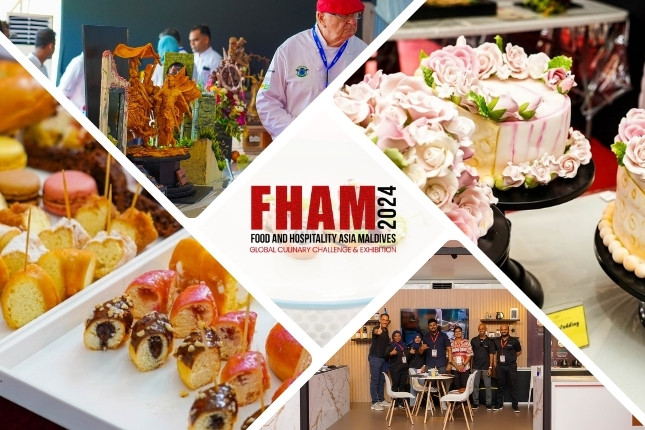
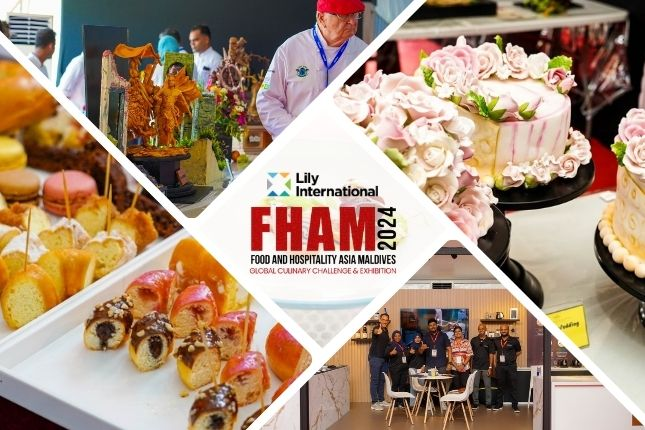
New sponsorlogo changes

diff --git a/index.html b/index.html
@@ -114,7 +114,7 @@
         </div>  
 
         <div class="date-container" style="padding-bottom: 0;">
-            <span  style="color: rgb(255, 255, 255); ">22 | 23 | 24 | 25 SEPTEMBER 2024 - Culinary Competitions
+            <span  style="color: rgb(255, 255, 255); ">22 | 23 | 24 | 25 SEPTEMBER 2024 - Culinary, Barista, Mocktail and Housekeeping & Bed Decorating Competitions
         </div>   
        
         <a href="https://fhamaldives.com/form-db/" class="primary-btn" style="color:aliceblue; "  target="_blank">STALL RESERVATION</a>
@@ -287,6 +287,18 @@
                              <span class="name" style="color: aliceblue;">Sea Sports & Games</span>
                         </summary>
                     </details>
+
+                    <details class="feature">
+                        <summary>
+                            <i aria-hidden="true" class="checkmark">
+                                <svg xmlns="http://www.w3.org/2000/svg" viewBox="0 0 24 24" width="24" height="24">
+                                    <path fill="none" d="M0 0h24v24H0z" />
+                                    <path fill="currentColor" d="M10 15.172l9.192-9.193 1.415 1.414L10 18l-6.364-6.364 1.414-1.414z" />
+                                </svg>
+                            </i>
+                             <span class="name" style="color: aliceblue;">Linen & Amenities</span>
+                        </summary>
+                    </details>
                 <!-- Add more left details here if needed -->
             </div>
             
@@ -336,6 +348,17 @@
                             </svg>
                         </i>
                          <span class="name" style="color: aliceblue;">Engines & Accessories </span>
+                    </summary>
+                </details>
+                <details class="feature">
+                    <summary>
+                        <i aria-hidden="true" class="checkmark">
+                            <svg xmlns="http://www.w3.org/2000/svg" viewBox="0 0 24 24" width="24" height="24">
+                                <path fill="none" d="M0 0h24v24H0z" />
+                                <path fill="currentColor" d="M10 15.172l9.192-9.193 1.415 1.414L10 18l-6.364-6.364 1.414-1.414z" />
+                            </svg>
+                        </i>
+                         <span class="name" style="color: aliceblue;">Detergent & Cleaning Solutions</span>
                     </summary>
                 </details>
                 <!-- Add more right details here if needed -->
@@ -778,6 +801,16 @@
                     </a>
                 </div>
             </div>
+
+            <div class="pl-table">
+                <div class="pl-tablecell">
+                    <a href="https://corporate.visitmaldives.com/" target="_blank">
+                    <img src="img/partner-logo/Endorsed/en-7.jpg" alt="">
+      
+                    </a>
+                </div>
+            </div>
+
         </div>
 
      
@@ -957,8 +990,8 @@
                     <div class="li-tag">WHEN</div>
                     <div class="li-text">
                         <span style="font-size: 17px;"><i class="fa fa-clock-o"></i> 23 | 24 | 25 SEPTEMBER 2024 - Exhibition</span><br>
-                        <span style="font-size: 17px;"><i class="fa fa-clock-o"></i> 22 | 23 | 24 | 25 SEPTEMBER 2024 - Culinary Competitions </span><br>
-                        <h5><a>Exhibition & Culinary Challenge Dates</a></h5>
+                        <span style="font-size: 17px;"><i class="fa fa-clock-o"></i> 22 | 23 | 24 | 25 SEPTEMBER 2024 - FHAM 2024 Competitions </span><br>
+                        <h5><a>Exhibition and Competition Dates</a></h5>
                     </div>
                 </div>
                 <div class="latest-item set-bg" data-setbg="img/blog/location-blog.jpg">
@@ -1142,7 +1175,7 @@
             <div class="col-lg-3">
                 <div class="footer-text">
                     <div class="ft-logo">
-                        <a href="#" class="footer-logo"><img src="img/logo-pld.png" alt=""></a>
+                        <a href="#" class="footer-logo"><img src="img/logo-foot.png" alt=""></a>
                     </div>
                     <div class="con-info custom-font" style="color: aliceblue; ">
 
@@ -1283,6 +1316,11 @@
             <a href="http://maldiveshousekeepers.com/" class="pl-table" target="_blank">
                 <div class="pl-tablecell">
                     <img src="img/partner-logo/partner-6.png" alt="">
+                </div>
+            </a>
+            <a href="https://corporate.visitmaldives.com/" class="pl-table" target="_blank">
+                <div class="pl-tablecell">
+                    <img src="img/partner-logo/partner-9.png" alt="">
                 </div>
             </a>
            

diff --git a/Exhibition.html b/Exhibition.html
@@ -73,7 +73,7 @@
     <div class="container" style="width: 1500px;">
         <div class="logo">
             <a href="./index.html">
-                <img src="img/logo.png" alt="">
+                <img src="img/logo-n.png" alt="">
             </a>
         </div>
         <div class="nav-menu">
@@ -118,7 +118,7 @@
                             
                             </div>
                             <div class="herodate2">
-                                <span class="herodate2" style="color: rgb(255, 255, 255); ">22 | 23 | 24 | 25 SEPTEMBER 2024 - Culinary Competitions
+                                <span class="herodate2" style="color: rgb(255, 255, 255); ">22 | 23 | 24 | 25 SEPTEMBER 2024 - Culinary, Barista, Mocktail and Housekeeping & Bed Decorating Competitions
                                 </span><br>
                                 
                             </div>
@@ -171,7 +171,7 @@
                 </div>
                 <div class="col-lg-6">
                     <div class="ha-pic">
-                        <img src="img/about/exhibition.jpg" alt="" >
+                        <img src="img/about/exhibition-3.jpg" alt="" >
                     </div>
                 </div>
                 <div class="col-lg-6">
@@ -272,6 +272,19 @@
                                  <span class="name" style="color: aliceblue;">Sea Sports & Games</span>
                             </summary>
                         </details>
+
+                        <details class="feature">
+                            <summary>
+                                <i aria-hidden="true" class="checkmark">
+                                    <svg xmlns="http://www.w3.org/2000/svg" viewBox="0 0 24 24" width="24" height="24">
+                                        <path fill="none" d="M0 0h24v24H0z" />
+                                        <path fill="currentColor" d="M10 15.172l9.192-9.193 1.415 1.414L10 18l-6.364-6.364 1.414-1.414z" />
+                                    </svg>
+                                </i>
+                                 <span class="name" style="color: aliceblue;">Linen & Amenities</span>
+                            </summary>
+                        </details>
+
                     <!-- Add more left details here if needed -->
                 </div>
                 
@@ -323,6 +336,19 @@
                              <span class="name" style="color: aliceblue;">Engines & Accessories </span>
                         </summary>
                     </details>
+
+                    <details class="feature">
+                        <summary>
+                            <i aria-hidden="true" class="checkmark">
+                                <svg xmlns="http://www.w3.org/2000/svg" viewBox="0 0 24 24" width="24" height="24">
+                                    <path fill="none" d="M0 0h24v24H0z" />
+                                    <path fill="currentColor" d="M10 15.172l9.192-9.193 1.415 1.414L10 18l-6.364-6.364 1.414-1.414z" />
+                                </svg>
+                            </i>
+                             <span class="name" style="color: aliceblue;">Detergent & Cleaning Solutions</span>
+                        </summary>
+                    </details>
+
                     <!-- Add more right details here if needed -->
                 </div>
             </div>
@@ -792,7 +818,7 @@
             <div class="col-lg-3">
                 <div class="footer-text">
                     <div class="ft-logo">
-                        <a href="#" class="footer-logo"><img src="img/logo-pld.png" alt=""></a>
+                        <a href="#" class="footer-logo"><img src="img/logo-foot.png" alt=""></a>
                     </div>
                     <div class="con-info custom-font" style="color: aliceblue; ">
 
@@ -936,7 +962,11 @@
                     <img src="img/partner-logo/partner-6.png" alt="">
                 </div>
             </a>
-           
+            <a href="https://corporate.visitmaldives.com/" class="pl-table" target="_blank">
+                <div class="pl-tablecell">
+                    <img src="img/partner-logo/partner-9.png" alt="">
+                </div>
+            </a>
             
         </div>
 

diff --git a/about-us.html b/about-us.html
@@ -107,7 +107,7 @@
                             
                             </div>
                             <div class="herodate2">
-                                <span class="herodate2" style="color: rgb(255, 255, 255); ">22 | 23 | 24 | 25 SEPTEMBER 2024 - Culinary Competitions
+                                <span class="herodate2" style="color: rgb(255, 255, 255); ">22 | 23 | 24 | 25 SEPTEMBER 2024 - Culinary, Barista, Mocktail and Housekeeping & Bed Decorating Competitions
                                 </span><br>
                                 
                             </div>
@@ -341,6 +341,16 @@
                     </a>
                 </div>
             </div>
+
+            <div class="pl-table">
+                <div class="pl-tablecell">
+                    <a href="https://corporate.visitmaldives.com/" target="_blank">
+                    <img src="img/partner-logo/Endorsed/en-7.jpg" alt="">
+      
+                    </a>
+                </div>
+            </div>
+
         </div>
 
      
@@ -885,7 +895,7 @@
             <div class="col-lg-3">
                 <div class="footer-text">
                     <div class="ft-logo">
-                        <a href="#" class="footer-logo"><img src="img/logo-pld.png" alt=""></a>
+                        <a href="#" class="footer-logo"><img src="img/logo-foot.png" alt=""></a>
                     </div>
                     <div class="con-info custom-font" style="color: aliceblue; ">
 
@@ -1029,7 +1039,11 @@
                     <img src="img/partner-logo/partner-6.png" alt="">
                 </div>
             </a>
-           
+           <a href="https://corporate.visitmaldives.com/" class="pl-table" target="_blank">
+                <div class="pl-tablecell">
+                    <img src="img/partner-logo/partner-9.png" alt="">
+                </div>
+            </a>
             
         </div>
 

diff --git a/Challenge-1.html b/Challenge-1.html
@@ -117,7 +117,7 @@
                             
                             </div>
                             <div class="herodate2">
-                                <span class="herodate2" style="color: rgb(255, 255, 255); ">22 | 23 | 24 | 25 SEPTEMBER 2024 - Culinary Competitions
+                                <span class="herodate2" style="color: rgb(255, 255, 255); ">22 | 23 | 24 | 25 SEPTEMBER 2024 - Culinary, Barista, Mocktail and Housekeeping & Bed Decorating Competitions
                                 </span><br>
                                 
                             </div>
@@ -311,7 +311,7 @@
             <div class="col-lg-3">
                 <div class="footer-text">
                     <div class="ft-logo">
-                        <a href="#" class="footer-logo"><img src="img/logo-pld.png" alt=""></a>
+                        <a href="#" class="footer-logo"><img src="img/logo-foot.png" alt=""></a>
                     </div>
                     <div class="con-info custom-font" style="color: aliceblue; ">
 
@@ -455,7 +455,11 @@
                     <img src="img/partner-logo/partner-6.png" alt="">
                 </div>
             </a>
-           
+            <a href="https://corporate.visitmaldives.com/" class="pl-table" target="_blank">
+                <div class="pl-tablecell">
+                    <img src="img/partner-logo/partner-9.png" alt="">
+                </div>
+            </a>
             
         </div>
 

diff --git a/Challenge-2.html b/Challenge-2.html
@@ -117,7 +117,7 @@
                             
                             </div>
                             <div class="herodate2">
-                                <span class="herodate2" style="color: rgb(255, 255, 255); ">22 | 23 | 24 | 25 SEPTEMBER 2024 - Culinary Competitions
+                                <span class="herodate2" style="color: rgb(255, 255, 255); ">22 | 23 | 24 | 25 SEPTEMBER 2024 - Culinary, Barista, Mocktail and Housekeeping & Bed Decorating Competitions
                                 </span><br>
                                 
                             </div>
@@ -305,7 +305,7 @@
             <div class="col-lg-3">
                 <div class="footer-text">
                     <div class="ft-logo">
-                        <a href="#" class="footer-logo"><img src="img/logo-pld.png" alt=""></a>
+                        <a href="#" class="footer-logo"><img src="img/logo-foot.png" alt=""></a>
                     </div>
                     <div class="con-info custom-font" style="color: aliceblue; ">
 
@@ -449,7 +449,11 @@
                     <img src="img/partner-logo/partner-6.png" alt="">
                 </div>
             </a>
-           
+            <a href="https://corporate.visitmaldives.com/" class="pl-table" target="_blank">
+                <div class="pl-tablecell">
+                    <img src="img/partner-logo/partner-9.png" alt="">
+                </div>
+            </a>
             
         </div>
 

diff --git a/Challenge-3.html b/Challenge-3.html
@@ -117,7 +117,7 @@
                             
                             </div>
                             <div class="herodate2">
-                                <span class="herodate2" style="color: rgb(255, 255, 255); ">22 | 23 | 24 | 25 SEPTEMBER 2024 - Culinary Competitions
+                                <span class="herodate2" style="color: rgb(255, 255, 255); ">22 | 23 | 24 | 25 SEPTEMBER 2024 - Culinary, Barista, Mocktail and Housekeeping & Bed Decorating Competitions
                                 </span><br>
                                 
                             </div>
@@ -323,7 +323,7 @@
             <div class="col-lg-3">
                 <div class="footer-text">
                     <div class="ft-logo">
-                        <a href="#" class="footer-logo"><img src="img/logo-pld.png" alt=""></a>
+                        <a href="#" class="footer-logo"><img src="img/logo-foot.png" alt=""></a>
                     </div>
                     <div class="con-info custom-font" style="color: aliceblue; ">
 
@@ -467,7 +467,11 @@
                     <img src="img/partner-logo/partner-6.png" alt="">
                 </div>
             </a>
-           
+            <a href="https://corporate.visitmaldives.com/" class="pl-table" target="_blank">
+                <div class="pl-tablecell">
+                    <img src="img/partner-logo/partner-9.png" alt="">
+                </div>
+            </a>
             
         </div>
 

diff --git a/Challenge-4.html b/Challenge-4.html
@@ -116,7 +116,7 @@
                             
                             </div>
                             <div class="herodate2">
-                                <span class="herodate2" style="color: rgb(255, 255, 255); ">22 | 23 | 24 | 25 SEPTEMBER 2024 - Culinary Competitions
+                                <span class="herodate2" style="color: rgb(255, 255, 255); ">22 | 23 | 24 | 25 SEPTEMBER 2024 - Culinary, Barista, Mocktail and Housekeeping & Bed Decorating Competitions
                                 </span><br>
                                 
                             </div>
@@ -316,7 +316,7 @@
             <div class="col-lg-3">
                 <div class="footer-text">
                     <div class="ft-logo">
-                        <a href="#" class="footer-logo"><img src="img/logo-pld.png" alt=""></a>
+                        <a href="#" class="footer-logo"><img src="img/logo-foot.png" alt=""></a>
                     </div>
                     <div class="con-info custom-font" style="color: aliceblue; ">
 
@@ -459,7 +459,11 @@
                     <img src="img/partner-logo/partner-6.png" alt="">
                 </div>
             </a>
-           
+            <a href="https://corporate.visitmaldives.com/" class="pl-table" target="_blank">
+                <div class="pl-tablecell">
+                    <img src="img/partner-logo/partner-9.png" alt="">
+                </div>
+            </a>
             
         </div>
 

diff --git a/gallery.html b/gallery.html
@@ -115,7 +115,7 @@
                             
                             </div>
                             <div class="herodate2">
-                                <span class="herodate2" style="color: rgb(255, 255, 255); ">22 | 23 | 24 | 25 SEPTEMBER 2024 - Culinary Competitions
+                                <span class="herodate2" style="color: rgb(255, 255, 255); ">22 | 23 | 24 | 25 SEPTEMBER 2024 - Culinary, Barista, Mocktail and Housekeeping & Bed Decorating Competitions
                                 </span><br>
                                 
                             </div>
@@ -607,7 +607,7 @@
             <div class="col-lg-3">
                 <div class="footer-text">
                     <div class="ft-logo">
-                        <a href="#" class="footer-logo"><img src="img/logo-pld.png" alt=""></a>
+                        <a href="#" class="footer-logo"><img src="img/logo-foot.png" alt=""></a>
                     </div>
                     <div class="con-info custom-font" style="color: aliceblue; ">
 
@@ -751,7 +751,11 @@
                     <img src="img/partner-logo/partner-6.png" alt="">
                 </div>
             </a>
-           
+            <a href="https://corporate.visitmaldives.com/" class="pl-table" target="_blank">
+                <div class="pl-tablecell">
+                    <img src="img/partner-logo/partner-9.png" alt="">
+                </div>
+            </a>
             
         </div>
 

diff --git a/contact.php b/contact.php
@@ -486,7 +486,11 @@ if (isset($_POST['submit'])) {
                     <img src="img/partner-logo/partner-6.png" alt="">
                 </div>
             </a>
-           
+            <a href="https://corporate.visitmaldives.com/" class="pl-table" target="_blank">
+                <div class="pl-tablecell">
+                    <img src="img/partner-logo/partner-9.png" alt="">
+                </div>
+            </a>
             
         </div>
 
